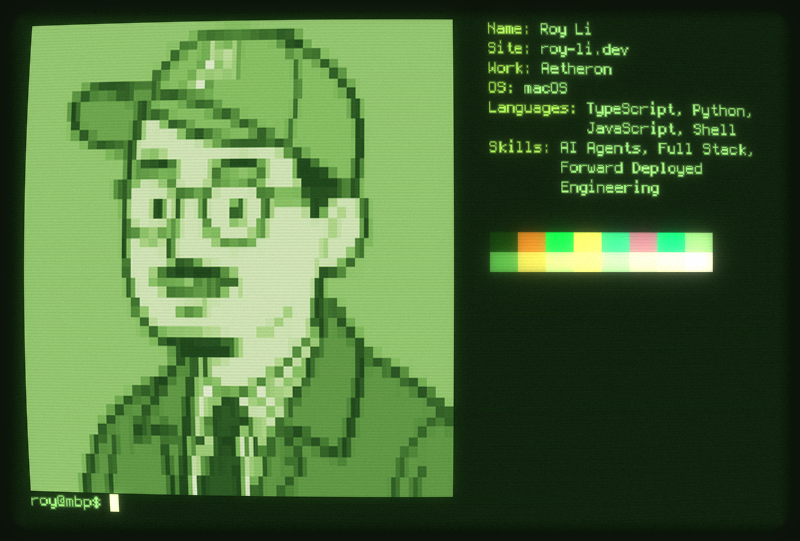
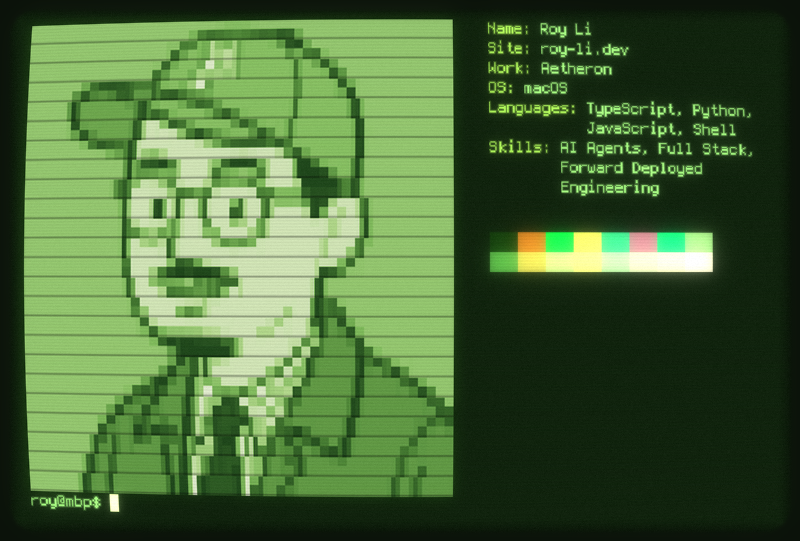
Restore portrait row lines and match reference CRT motion

diff --git a/tools/build_crt.py b/tools/build_crt.py
@@ -1,4 +1,4 @@
-"""Render a softly glowing CRT with deterministic grain and a seamless refresh cycle."""
+"""Render a softly glowing CRT with character rows, fine grain, and a broad refresh sweep."""
 from pathlib import Path
 import math
 import subprocess
@@ -9,7 +9,7 @@ from PIL import Image, ImageDraw, ImageFilter
 
 from build_screen import BACKGROUND, WIDTH, HEIGHT
 
-FRAMES, FPS = 48, 8
+FRAMES, FPS = 44, 7
 SEED = 0x435254
 
 
@@ -59,6 +59,10 @@ def prepare(screen_path):
     portrait_halo = blur(portrait_emission, 7) * (.12, .22, .07)
     portrait_halo[18:498, 22:454] = 0
     tube += portrait_halo
+    # Character-row baselines belong to the portrait and curve with its glass.
+    for row in range(24):
+        top = 18 + row * 20 + 17
+        tube[top:top + 3, 22:454] *= np.array([.90, .72, .82])[:, None, None]
     yy, xx = np.indices((HEIGHT, WIDTH))
     tube *= (1 - .045 * (1 + np.cos(yy * math.tau / 3.1)) / 2)[:, :, None]
     # A faint horizontal phosphor structure remains visible in the dark glass.
@@ -89,15 +93,35 @@ def main(screen_path, out_gif, still_only=False):
     rgb(base).save(still_path)
     if still_only:
         return
+    noise_strength = np.full((HEIGHT, WIDTH), 1.0, dtype=np.float32)
+    noise_strength[18:498, 22:454] = 1.55
+    noise_strength[18:216, 484:776] = 1.45
+    noise_strength[228:279, 485:719] = 3.6
+    coarse_size = ((HEIGHT + 1) // 2, (WIDTH + 1) // 2)
+    drift = 0.0
     for index in range(FRAMES):
         phase = index / FRAMES
-        distance = ((yy - (-70 + phase * (HEIGHT + 140)) + (HEIGHT + 140) / 2)
-                    % (HEIGHT + 140) - (HEIGHT + 140) / 2)
-        band = 4 * np.exp(-(distance / 26) ** 2)
-        flicker = .003 * math.sin(math.tau * phase) + .0015 * math.sin(math.tau * phase * 3)
-        shimmer = .8 * np.sin(xx * .7 + yy * 1.3 + math.tau * phase)
+        # A broad refresh band traverses the glass, rather than a narrow bright line.
+        center = np.interp(index, [0, 7, 12, 20, 28, 36, 43],
+                           [-180, -25, 82, 200, 335, 464, 552])
+        band = 7.2 * np.exp(-((yy - center) / 60) ** 2)
+        drift = .72 * drift + rng.normal(0, .0015)
+        flicker = .004 * math.sin(math.tau * phase) + drift
         frame = base * (1 + flicker * mask[:, :, None])
-        frame += ((band + shimmer) * mask)[:, :, None]
+        if index:
+            grain = rng.normal(0, 1, coarse_size).repeat(2, 0).repeat(2, 1)[:HEIGHT, :WIDTH]
+            chroma = rng.normal(0, .35, (*coarse_size, 3)).repeat(2, 0).repeat(2, 1)[:HEIGHT, :WIDTH]
+            frame += (grain[:, :, None] + chroma) * (noise_strength * mask)[:, :, None]
+        # Keep the cabinet steady; only the phosphor image has a tiny horizontal nudge.
+        displacement = (.025 * math.sin(math.tau * phase * 7)
+                        + .018 * np.sin(np.arange(HEIGHT) * .19 + math.tau * phase * 3))
+        if index == 27:
+            displacement += .48
+        neighbor = np.where((displacement >= 0)[:, None, None],
+                            np.roll(frame, 1, axis=1), np.roll(frame, -1, axis=1))
+        weight = (np.abs(displacement)[:, None] * mask)[:, :, None]
+        frame = frame * (1 - weight) + neighbor * weight
+        frame += (band * mask)[:, :, None]
         rgb(frame).save(workdir / f'frame-{index:03d}.png')
     subprocess.run([
         'ffmpeg', '-hide_banner', '-loglevel', 'error', '-y', '-framerate', str(FPS),
